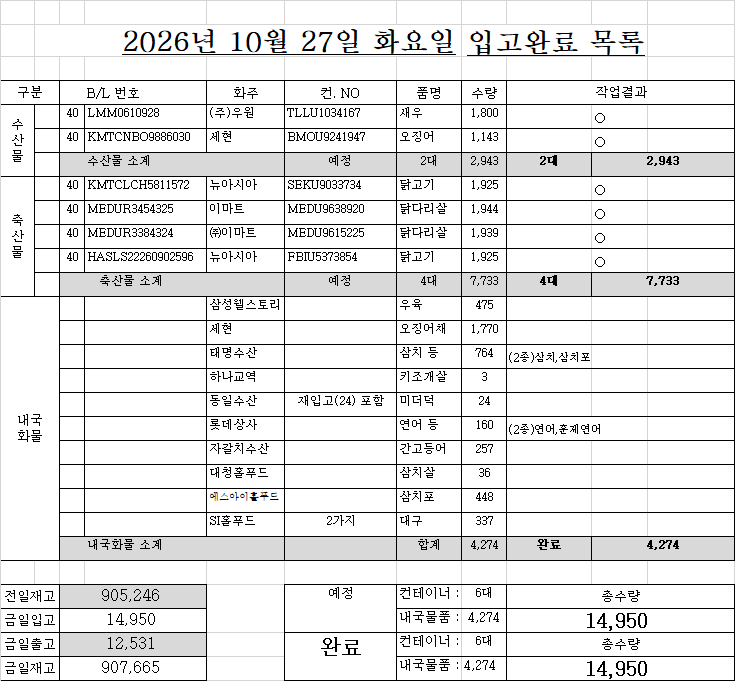
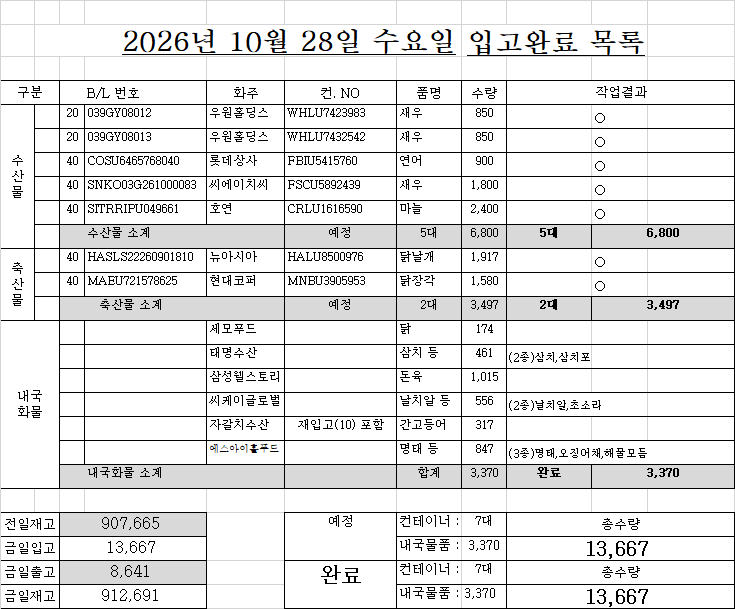
1028

diff --git a/list.html b/list.html
@@ -171,52 +171,47 @@
 <!-- ★★★★★★ 따로 빼 놔야한다. 복붙하면 첫칸 비어도 되는데, 여기서는 첫칸비우면 당겨진다. -->
 <!-- ★ 엑셀범위를 브라우저 textarea에 붙여넣으면 첫셀 비어도 제대로 되는데... HTML에 붙여놓은 자료는 처음셀이 비어있으면 당겨짐 -->
 <div class="d-none" id="원본text_리스트1부터w요약열까지">작성	면허	B/LNO.	화주	컨테이너NO.	품명	수량	반입NO.	입항일	구분	도착일	도착시간	구분	운도VBA	04/27 월 07:21	화찰BL	화찰 선명	화물관리번호	화찰수량	화찰중량	화찰입항	리스트시트기준열	
-1	○	039GY08012	우원홀딩스	WHLU7423983	새우	850 		10/24	1			20		면허?, CY : 신선대감만터미널(주) 감만CY, 컨진행 : 보세운송 신고 접수, 선사 : 만해항운 한국(주)	039GY08012	WAN HAI 308	26WHLUVS24I-1112-	850 	10,115.00 	2026.10.24	10/27 화 16:18	
-1	○	039GY08013	우원홀딩스	WHLU7432542	새우	850 		10/24	1			20		면허?, CY : 신선대감만터미널(주) 감만CY, 컨진행 : 보세운송 신고 접수, 선사 : 만해항운 한국(주)	039GY08013	WAN HAI 308	26WHLUVS24I-1113-	850 	9,775.00 	2026.10.24	조회정보	
-1	○	COSU6465768040	롯데상사	FBIU5415760	연어	900 		10/25	1				.BNCT	(주)에스에스물류, CY : (주)비엔씨티(CY), 컨진행 : 보세운송 신고 수리, 선사 : 씨엠에이씨지엠	COSU6465768040	CMA CGM HELIUM	26CMAL0508I-4009-	900 	24,408.90 	2026.10.25	적재	57
-1	○	SNKO03G261000083	씨에이치씨	FSCU5892439	새우	1,800 		10/26	1				.허치슨감만	(주)에스에스물류, CY : 한국허치슨터미널(주), 컨진행 : 하선신고 수리완료, 선사 : 장금상선(주), 포딩 : 주식회사 엔제이글로벌	SNKO03G261000083	SAWASDEE SUNRISE	26SNKO3897I-6024-0001	1,800 	21,000.00 	2026.10.26	4,617 	3줄
-1		SITRRIPU049661	호연	CRLU1616590	마늘	2,400 		10/27	1												6,156 	4줄
-1	○	HASLS22260901810	뉴아시아	HALU8500976	닭날개	1,917 		10/20	2				ACE.BPT신선대	면허?, CY : 신선대감만터미널(주) 신선대CY, 컨진행 : 입항적재화물목록 정정 승인, 선사 : 장금상선(주)	HASLS22260901810	SAWASDEE SPICA	26SNKO3810I-2071-	1,917 	24,154.20 	2026.10.20	7,695 	5줄
-1	○	MAEU721578625	현대코퍼	MNBU3905953	닭장각	1,580 		10/25	2				.PNC	(주)골든로지텍, CY : 부산신항만(주)자유무역지역, 컨진행 : 보세운송 신고 수리, 선사 : 하파그로이드코리아(주)	MAEU721578625	BUDAPEST EXPRESS	26HLCU1107I-1202-	1,580 	24,387.30 	2026.10.25	9,234 	6줄
-2	○	MAEU721578619	현대코퍼	MNBU4458314	닭장각	1,580 		10/25	2				.PNC	(주)골든로지텍, CY : 부산신항만(주)자유무역지역, 컨진행 : 반입완료, 선사 : 하파그로이드코리아(주)	MAEU721578619	BUDAPEST EXPRESS	26HLCU1107I-1198-	1,580 	24,387.30 	2026.10.25	구분	대수
-2	○	HDMUSAOA98837200	수월한	HDMU5532775	닭다리살	1,960 		10/27	2				.HPNT	면허?, CY : 에이치엠엠피에스에이신항만(주), 컨진행 : 입항적재화물목록 심사완료, 선사 : 에이치엠엠(주)	HDMUSAOA98837200	HMM GREEN	26HDMUA563I-0363-	1,960 	24,500.00 	2026.10.27	출고입고	4주간
-2	○	KMTCLCH5814881	주식회사 뉴아시아	OTPU6893025	닭날개	1,925 		10/27	2				.허치슨감만	면허?, CY : 한국허치슨터미널(주), 컨진행 : 입항적재화물목록 심사완료, 선사 : 고려해운(주)	KMTCLCH5814881	KMTC TAIPEIS	26KMTC3519I-0040-	1,925 	24,640.00 	2026.10.27	1일 7/5	9바닥줄
-		HASLS22260902601	뉴아시아	FBIU5092950	닭날개	1,925 		10/24	2				.BPT신선대	면허?, CY : 신선대감만터미널(주) 신선대CY, 컨진행 : 반입완료, 선사 : 장금상선(주)	HASLS22260902601	SAWASDEE RIGEL	26SNKO3903I-2222-	1,925 	24,640.00 	2026.10.24	14,380 	9.3
-		KMTCLCH5820283	뉴아시아	FBIU5896428	닭고기	1,950 		10/26	2				.허치슨감만	면허?, CY : 한국허치슨터미널(주), 컨진행 : 하선신고 수리완료, 선사 : 장금상선(주)	KMTCLCH5820283	SAWASDEE SUNRISE	26SNKO3897I-0011-	1,950 	24,765.00 	2026.10.26	14,286 	9.3
-		ONEYSGNGBP821600	우원홀딩스	SEGU9268122	멘보샤	1,025 		10/26	1			20									내국제외	
-		_341610076291	우원홀딩스	TSTU8204502	새우	660 		10/26	1			20									구분	대수
-		KMTCNBO9933168	세현	SEGU9593056	오징어	1,600 		10/27	1				.BPT신선대								수산	13 
-		HDMUSAOA46495702	아스트로스	HMMU5506250	닭다리살	1,960 		10/27	2				.HPNT	면허?, CY : 에이치엠엠피에스에이신항만(주), 컨진행 : 입항적재화물목록 심사완료, 선사 : 에이치엠엠(주)	HDMUSAOA46495702	HMM GREEN	26HDMUA563I-0432-	1,960 	24,500.00 	2026.10.27	축산	55 
-		KMTCPKG2774990	우원홀딩스	SEGU9724109	새우	1,284 		10/27	1			20	.BPT감만								합계	68 
-		YMJAB951092499	대상 주식회사	SEKU9320272	닭장각	1,568 		10/28	2				.HJNC									
-		YMJAB951092501	수월한	YMLU5523693	닭다리살	1,960 		10/28	2				.HJNC								화주	대수
-		MAEUJBS327476	열호통상	MNBU1252588	닭다리살	1,939 		10/28	2												수월한	12
-		ONEYSGNGBL376700	우원홀딩스	ONEU8035972	새우	851 		10/28	1			20									참트레이딩	10
-		ONEYSGNGBL377800	우원홀딩스	ONEU8024303	새우	930 		10/28	1			20									우원홀딩스	8
-		MAEUJBS327992	이마트	MNBU3734589	닭다리살			10/28	2				.PNC			SAN LORENZO					대상 주식회사	6
-		MAEUJBS328049	이마트	SUDU8120660	닭다리살			10/28	2				.PNC			MAERSK EUREKA					주식회사 뉴아시아	6
-		MEDUWE271061	이마트	SZLU9272954	닭다리살			10/28	2				.PNC			MSC MAYA					이마트	5
-		DJSCLCH260003179	주식회사 뉴아시아 (동일)	SEKU9295673	닭날개	1,950 		10/28	2				.BPT신선대			PANCON BRIDGE					뉴아시아	4
-		MEDUWE288594	이마트	TRIU8887620	닭다리살			10/29	2				.확인안함			SANTA CATARINA EXPRESS					아스트로스	2
-		SMLMBKK6A5179300	참트레이딩	FBIU5802199	닭발	1,794 		10/29	2				.BPT신선대								현대코퍼	2
-		MAEUJBS327643	수월한	MNBU0422036	닭다리살	1,958 		10/30	2				.PNC								대성무역	2
-		SMLMBKK6A5166600	주식회사 뉴아시아	FBIU5801720	닭날개	1,950 		10/30	2				.허치슨감만			SKY SUNSHINE					호연	1
-		MAEUJBS327290	㈜이마트	MNBU3091190	닭다리살			10/30	2				.PNC			BERLIN MAERSK					열호통상	1
-		COSU6508305260	대상 주식회사	OERU4050122	닭다리살	1,916 		10/31	2				.BNCT								롯데상사	1
-		MEDUWE282837	대상 주식회사	MEDU9086780	닭다리살	1,980 		10/31	2				.PNIT								주식회사 뉴아시아 (동일)	1
-		MAEUJBS328088	수월한	MNBU0340489	닭다리살	1,839 		11/1	2				.PNC								세현	1
-		MAEUJBS329506	이마트	MNBU3397087	닭다리살			11/1	2				.PNC			MAERSK EUREKA					㈜이마트	1
-		HASLS22261000469	동일냉장	HALU8500702	닭고기	1,925 		11/2	2												동일냉장	1
-		MAEUJBS330744	수월한	SUDU8072963	닭다리살	1,958 		11/2	2				.PNC								혜성프로비젼	1
-		MAEUJBS330859	참트레이딩	MNBU0485306	닭다리살	1,958 		11/2	2				.PNC								씨코스트	1
-		MEDUAAI37286	참트레이딩	MEDU9035741	닭다리살	1,958 		11/2	2				.PNIT								씨에이치씨	1
-		MEDUWE285228	참트레이딩	SZLU9086965	닭다리살	1,958 		11/2	2				.PNIT								수월한 주식회사	1
-		MEDUAAI33400	참트레이딩	TRLU1896352	닭다리살	1,945 		11/2	2				.PNIT									
-		MAEUJBS330212	혜성프로비젼	SUDU6207946	닭다리살	1,948 		11/2	2				.PNC									
-		ONEYSAOG47881905	대상 주식회사	ONEU9456805	닭장각	1,568 		11/3	2													
-		BHA0123188	씨코스트	TTNU8236710	절단게	2,850 		11/3	1				.BNCT									
-		HDMUSAOA73194618	수월한	TLLU1091655	닭다리살	1,917 		11/6	2													
-		MAEU276665236	대상 주식회사	MSWU0078617	닭다리살	1,979 		11/7	2													
+1	○	341610076291	우원홀딩스	TSTU8204502	새우	660 		10/26	1			20		(주)에스에스물류, CY : 신선대감만터미널(주) 감만CY, 컨진행 : 보세운송 신고 수리, 선사 : 인터아시아라인즈코리아 주식회사	341610076291	INTERASIA MOMENTUM	26IALKIM20I-1009-	660 	4,620.00 	2026.10.26	10/28 수 16:16	
+1		ONEYSGNGBP821600	우원홀딩스	SEGU9268122	멘보샤	1,025 		10/27	1			20		면허?, CY : 신선대감만터미널(주) 신선대CY, 컨진행 : 반입완료, 선사 : 고려해운(주)	ONEYSGNGBP821600	KMTC PENANG	26KMTC3673I-5023-	1,025 	8,786.60 	2026.10.27	조회정보	
+1	○	HASLS22260902601	뉴아시아	FBIU5092950	닭날개	1,925 		10/24	2				.BPT신선대	에이스로지스틱(주), CY : 신선대감만터미널(주) 신선대CY, 컨진행 : 보세운송 신고 수리, 선사 : 장금상선(주)	HASLS22260902601	SAWASDEE RIGEL	26SNKO3903I-2222-	1,925 	24,640.00 	2026.10.24	적재	57
+1	○	MAEU721578619	현대코퍼	MNBU4458314	닭장각	1,580 		10/25	2	10/28	15:04		.PNC	(주)골든로지텍, CY : 부산신항만(주)자유무역지역, 컨진행 : 반출완료, 선사 : 하파그로이드코리아(주)	MAEU721578619	BUDAPEST EXPRESS	26HLCU1107I-1198-	1,580 	24,387.30 	2026.10.25	4,617 	3줄
+1	○	KMTCLCH5820283	뉴아시아	FBIU5896428	닭고기	1,950 		10/27	2				.허치슨감만	에이스로지스틱(주), CY : 한국허치슨터미널(주), 컨진행 : 입항적재화물목록 운항정보 정정, 선사 : 장금상선(주)	KMTCLCH5820283	SAWASDEE SUNRISE	26SNKO3897I-0011-	1,950 	24,765.00 	2026.10.27	6,156 	4줄
+1	○	HDMUSAOA98837200	수월한	HDMU5532775	닭다리살	1,960 		10/27	2				.HPNT	(주)골든로지텍, CY : 에이치엠엠피에스에이신항만(주), 컨진행 : 반입완료, 선사 : 에이치엠엠(주)	HDMUSAOA98837200	HMM GREEN	26HDMUA563I-0363-	1,960 	24,500.00 	2026.10.27	7,695 	5줄
+1	○	HDMUSAOA46495702	아스트로스	HMMU5506250	닭다리살	1,960 		10/27	2				.HPNT	(주)골든로지텍, CY : 에이치엠엠피에스에이신항만(주), 컨진행 : 보세운송 신고 수리, 선사 : 에이치엠엠(주)	HDMUSAOA46495702	HMM GREEN	26HDMUA563I-0432-	1,960 	24,500.00 	2026.10.27	9,234 	6줄
+1	○	KMTCLCH5814881	주식회사 뉴아시아	OTPU6893025	닭날개	1,925 		10/27	2				.허치슨감만	에이스로지스틱(주), CY : 한국허치슨터미널(주), 컨진행 : 반입완료, 선사 : 고려해운(주)	KMTCLCH5814881	KMTC TAIPEIS	26KMTC3519I-0040-	1,925 	24,640.00 	2026.10.27	구분	대수
+2	○	MAEUJBS328049	이마트	SUDU8120660	닭다리살	1,923 		10/28	2				.PNC	(주)에스에스물류, CY : 부산신항만(주)자유무역지역, 컨진행 : 입항적재화물목록 운항정보 정정, 선사 : 한국머스크(주)	MAEUJBS328049	MAERSK EUREKA	26MAEU0746I-1061-	1,923 	24,013.64 	2026.10.28	출고입고	4주간
+2	○	SMLMBKK6A5179300	참트레이딩	FBIU5802199	닭발	1,794 		10/29	2				.BPT신선대	(주)나모티엘에스, CY : 신선대감만터미널(주) 신선대CY, 컨진행 : 보세운송 신고 수리, 선사 : 범주해운(주)	SMLMBKK6A5179300	PANCON CHAMPION	26PCLUCK11I-8003-	1,794 	22,604.40 	2026.10.29	1일 7/5	9바닥줄
+		KMTCPKG2774990	우원홀딩스	SEGU9724109	새우	1,284 		10/27	1			20	.BPT감만								14,740 	9.6
+		YMJAB951092499	대상 주식회사	SEKU9320272	닭장각	1,568 		10/28	2				.HJNC								14,199 	9.2
+		YMJAB951092501	수월한	YMLU5523693	닭다리살	1,960 		10/28	2				.HJNC								내국제외	
+		MAEUJBS327476	열호통상	MNBU1252588	닭다리살	1,939 		10/28	2												구분	대수
+		ONEYSGNGBL376700	우원홀딩스	ONEU8035972	새우	851 		10/28	1			20									수산	16 
+		ONEYSGNGBL377800	우원홀딩스	ONEU8024303	새우	930 		10/28	1			20									축산	56 
+		DJSCLCH260003179	주식회사 뉴아시아 (동일)	SEKU9295673	닭날개	1,950 		10/28	2				.BPT신선대	면허?, CY : 신선대감만터미널(주) 신선대CY, 컨진행 : 하선신고 수리완료, 선사 : 범주해운(주)	DJSCLCH260003179	PANCON BRIDGE	26PCLUBK14I-5104-	1,950 	24,560.25 	2026.10.28	합계	72 
+		KMTCNBO9933168	세현	SEGU9593056	오징어	1,600 		10/29	1				.BPT신선대	면허?, CY : 신선대감만터미널(주) 감만CY, 컨진행 : 입항적재화물목록 심사완료, 선사 : 고려해운(주), 포딩 : (주)스카이로드	KMTCNBO9933168	SUNNY DAISY	26KMTC3457I-6105-0001	1,600 	17,280.00 	2026.10.29		
+		KMTCSUB2535450	씨케이글로벌	SEGU9717774	새우	2,130 		10/29	1					면허?, CY : 한국허치슨터미널(주), 컨진행 : 입항적재화물목록 제출, 선사 : 고려해운(주)	KMTCSUB2535450	KMTC INCHEON	26KMTC3697I-0035-	2,130 	12,268.80 	2026.10.29	화주	대수
+		MAEUJBS327992	이마트	MNBU3734589	닭다리살	1,958 		10/29	2				.PNC	면허?, CY : 부산신항만(주)자유무역지역, 컨진행 : 입항적재화물목록 제출, 선사 : 한국머스크(주)	MAEUJBS327992	SAN LORENZO	26MAEU0720I-1043-	1,958 	24,450.77 	2026.10.29	수월한	15
+		MEDUWE271061	이마트	SZLU9272954	닭다리살	1,953 		10/29	2				.PNC	면허?, CY : 부산신항만(주)자유무역지역, 컨진행 : 입항적재화물목록 심사완료, 선사 : 엠에스씨코리아(주)	MEDUWE271061	MSC MAYA	26MSCU2253I-0218-	1,953 	24,430.17 	2026.10.29	참트레이딩	10
+		MEDUWE288594	이마트	TRIU8887620	닭다리살			10/29	2				.확인안함			SANTA CATARINA EXPRESS					주식회사 뉴아시아	6
+		SMLMBKK6A5166600	주식회사 뉴아시아	FBIU5801720	닭날개	1,950 		10/29	2				.허치슨감만	면허?, CY : 한국허치슨터미널(주), 컨진행 : 입항적재화물목록 심사완료, 선사 : 고려해운(주)	SMLMBKK6A5166600	SKY SUNSHINE	26KMTC3681I-4001-	1,950 	24,375.00 	2026.10.29	우원홀딩스	6
+		DOLBYS2642E111	하나교역	EONU2867206	키조개살	1,000 		10/29	1			20		면허?, CY : 인터지스(주)7부두 컨테이너보세창고, 컨진행 : 하선신고 수리완료, 선사 : 두우해운(주), 포딩 : (주)보나미시스템	DOLBYS2642E111	YONG SHENG 158	26DWICB642I-0013-0001	1,000 	11,000.00 	2026.10.29	대상 주식회사	6
+		MAEUJBS327643	수월한	MNBU0422036	닭다리살	1,958 		10/30	2				.PNC								이마트	5
+		MAEUJBS327290	㈜이마트	MNBU3091190	닭다리살			10/30	2				.PNC			BERLIN MAERSK					바다사랑	5
+		COSU6508305260	대상 주식회사	OERU4050122	닭다리살	1,916 		10/31	2				.BNCT								뉴아시아	3
+		MEDUWE282837	대상 주식회사	MEDU9086780	닭다리살	1,980 		10/31	2				.PNIT								대성무역	2
+		MAEUJBS328088	수월한	MNBU0340489	닭다리살	1,839 		11/1	2				.PNC								아스트로스	2
+		MAEUJBS329506	이마트	MNBU3397087	닭다리살			11/1	2				.PNC			MAERSK EUREKA					주식회사 뉴아시아 (동일)	1
+		HASLS22261000469	동일냉장	HALU8500702	닭고기	1,925 		11/2	2												세현	1
+		MAEUJBS330744	수월한	SUDU8072963	닭다리살	1,958 		11/2	2				.PNC								씨케이글로벌	1
+		MAEUJBS330859	참트레이딩	MNBU0485306	닭다리살	1,958 		11/2	2				.PNC								하나교역	1
+		MEDUAAI37286	참트레이딩	MEDU9035741	닭다리살	1,958 		11/2	2				.PNIT								㈜이마트	1
+		MEDUWE285228	참트레이딩	SZLU9086965	닭다리살	1,958 		11/2	2				.PNIT								동일냉장	1
+		MEDUAAI33400	참트레이딩	TRLU1896352	닭다리살	1,945 		11/2	2				.PNIT								혜성프로비젼	1
+		MAEUJBS330212	혜성프로비젼	SUDU6207946	닭다리살	1,948 		11/2	2				.PNC								씨코스트	1
+		ONEYSAOG47881905	대상 주식회사	ONEU9456805	닭장각	1,568 		11/3	2												현대코퍼	1
+		BHA0123188	씨코스트	TTNU8236710	절단게	2,850 		11/3	1				.BNCT								수월한 주식회사	1
+		HDMUSAOA73194618	수월한	TLLU1091655	닭다리살	1,917 		11/6	2												열호통상	1
+		MAEU276665236	대상 주식회사	MSWU0078617	닭다리살	1,979 		11/7	2												씨에이치씨	1
 		COSU6508305250	대상 주식회사	OERU4827336	닭다리살	1,916 		11/7	2													
 		HDMUSAOA59781501	대성무역	HMMU5417131	닭장각	1,568 		11/7	2				.HPNT									
 		ONEYSAOG47681707	수월한	ONEU9151848	닭다리살	1,917 		11/7	2													
@@ -225,19 +220,28 @@
 		HDMUSAOA86149400	주식회사 뉴아시아	HMMU5628917	닭다리살	1,960 		11/10	2				.확인안함			확인안함						
 		HDMUSAOA99982000	주식회사 뉴아시아	HDMU5562682	닭다리살	1,960 		11/10	2				.확인안함			확인안함						
 		ONEYSAOG48454600	수월한	FSCU5809810	닭다리살	1,917 		11/12	2													
+		HDMUSAOA99982001	수월한	HDMU5638160	닭다리살	1,960 		11/12	2													
+		COSU6453491930	수월한	OERU4023976	닭다리살	1,960 		11/13	2													
 		MAEUJBS330421	수월한	TLLU1168567	닭다리살	1,958 		11/14	2				.확인안함									
 		MAEUJBS330940	수월한	MNBU0066629	닭다리살	1,868 		11/14	2				.확인안함									
 		MAEUJBS331075	수월한 주식회사	MWCU5295050	SR닭발	1,566 		11/14	2				.확인안함			 						
 		YMJAB951092475	아스트로스	YMLU5487169	닭다리살	1,960 		11/14	2				.확인안함									
 		HDMUSAOA24917302	대성무역	TEMU9693452	닭다리살	1,960 		11/15	2				.확인안함									
+		HDMUSAOA46487400	수월한	HDMU5619406	닭다리살	1,917 		11/15	2													
 		HDMUSAOA00230100	참트레이딩	HMMU5497190	닭다리살	1,951 		11/15	2				.확인안함									
 		ONEYSAOG52824903	주식회사 뉴아시아	KKFU6747429	닭다리살	1,960 		11/17	2				.확인안함			확인안함						
 		MAEUJBS332507	참트레이딩	MMAU1302231	닭다리살	1,958 		11/20	2				.확인안함									
 		ONEYSAOG54851400	수월한	ONEU9233191	닭다리살	1,951 		11/30	2													
 		KMTCLCH5714614	뉴아시아	FBIU5377443	닭다리살	1,925 			2				.허치슨감만									
+		KHHBUS2610016	바다사랑	ONEU9421223	꽁치	2,365 			1													
+		KHHBUS2610016	바다사랑	ONEU9473438	꽁치	2,365 			1													
+		KHHBUS2610016	바다사랑	OTPU6050859	꽁치	2,365 			1													
+		KHHBUS2610015	바다사랑	ONEU9196605	꽁치	2,290 			1													
+		KHHBUS2610015	바다사랑	FBIU5354366	꽁치	2,290 			1													
 		COSU6465766501	수월한	OERU4141161	닭다리살	1,917 			2													
+		XMN6A2091600	씨에이치씨	TEMU9182513	새우	1,800 			1													
 		HDMUSAOA56626800	참트레이딩	HMMU5442514	닭다리살	1,958 			2													
-		KMTCLCH5825536	참트레이딩	FBIU6000747	닭발	1,794 			2													
+		KMTCLCH5825536	참트레이딩	FBIU6000747	닭발	1,794 		10/28	2					면허?, CY : 한국허치슨터미널(주), 컨진행 : 반입완료, 선사 : 에스엠상선	KMTCLCH5825536	SM JAKARTA	26SMLM0570I-3507-	1,794 	22,604.40 	2026.10.28		
 		KMTCLCH5825696	참트레이딩	FBIU5960893	닭발	1,794 			2													
 
 </div>
